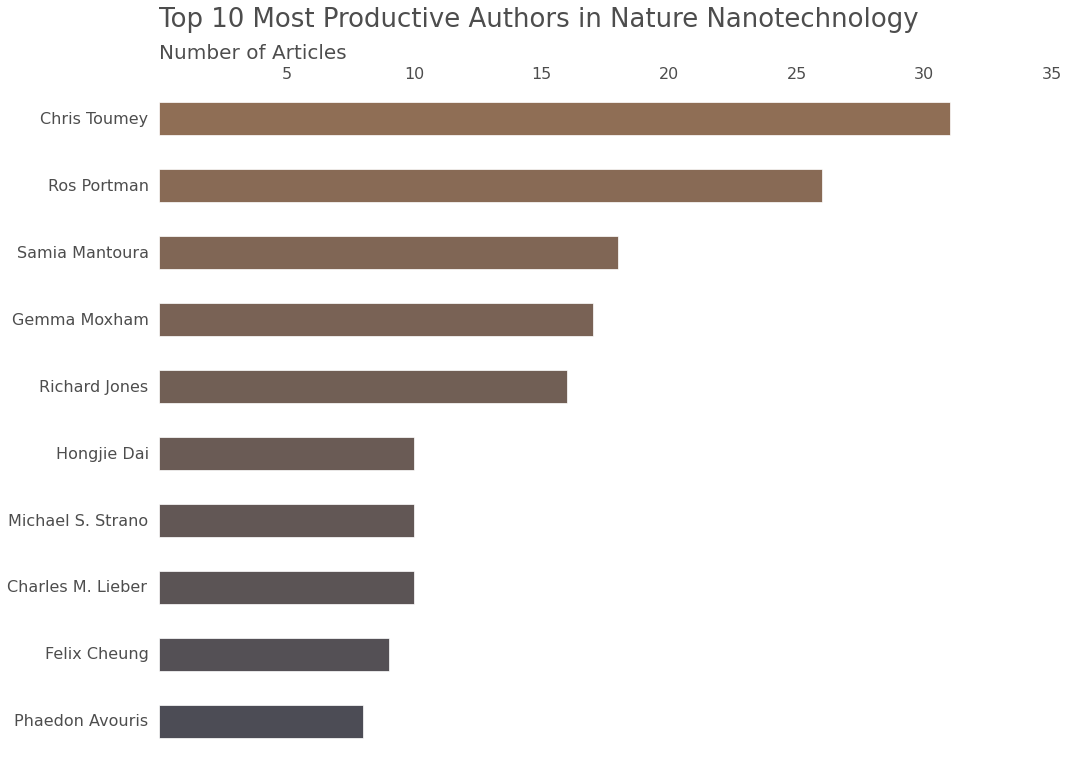
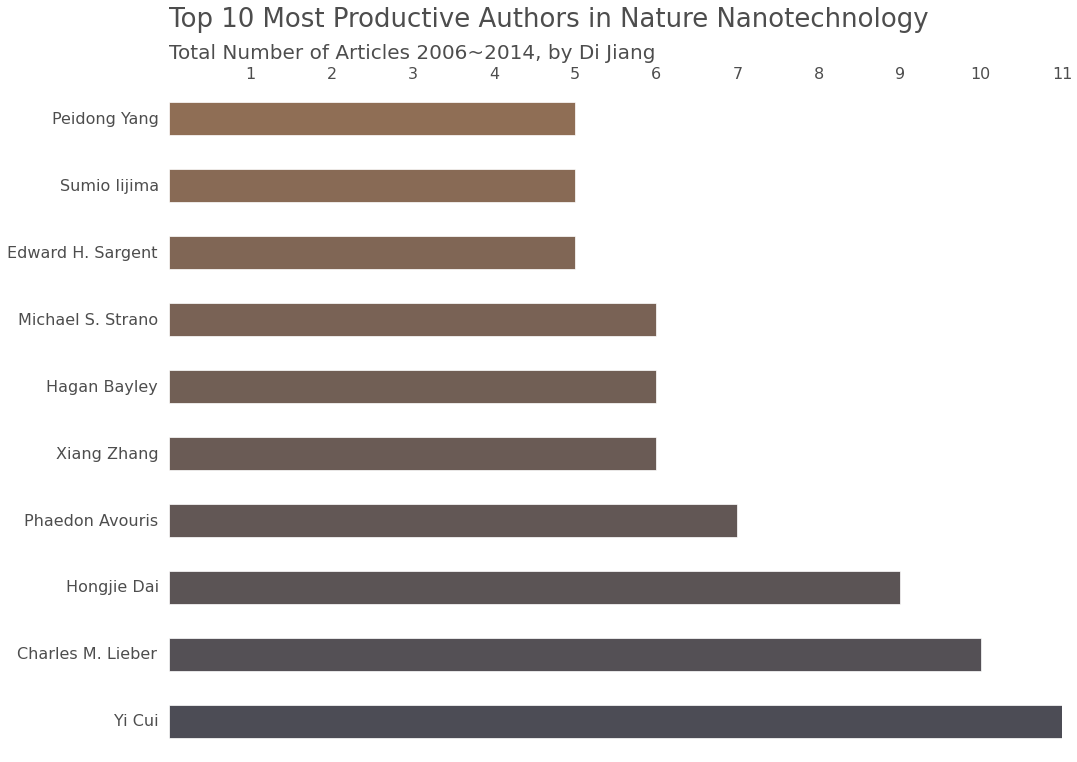
correct data

diff --git a/_drafts/2015-01-28-taste-of-open-access--part-3--top-10-most-productive-authors-in-nature-nanotechnology.md b/_drafts/2015-01-28-taste-of-open-access--part-3--top-10-most-productive-authors-in-nature-nanotechnology.md
@@ -9,54 +9,52 @@ date: 2015-01-28 18:00:41
 
 In the previous post, I have the downloaded all the meta information from Nature's Open Search API and saved them as json object arrays. And I have also counted the top 10 most used key words from these info. Now I would like to find out who are the most productive authors in Nature Nanotechnology.
 
-As I have already got the meta data in hand, the mission is quite easy. I just loaded all the json files and search for the `dc:creators` keys where stores all the author names. There is some bug in Nature's API that sometimes there are two spaces instead of one between authors' first and last names. So I did a quick fix `author.replace('[space][space]', '[space]')` to change two spaces to one before logging the name.
+As I have already got the meta data in hand, the mission is quite easy. I just loaded all the json files and search for the `dc:creators` keys where stores all the author names. There is a bug in Nature's API that sometimes there are two spaces instead of one between authors' first and last names. So I did a quick fix `author.replace('[space][space]', '[space]')` to change two spaces to one before logging the name.
 
 {% highlight python %}
-authorList = {}
-for year in range(2006, 2014):
+for year in range(2006, 2015):
     fileName = 'nnano-' + str(year)
     json_data=open(fileName + '.json')
     data = json.load(json_data)
+
+    authorList = {}
     
     for entry in data:
         if not entry['dc:creator']:
             continue
+        if entry["prism:genre"] != 'Research':
+            continue
             
         for author in entry['dc:creator']:
             author = author.replace('  ', ' ')
+            if author in editors:
+                continue
             if not author in authorList.keys():
                 authorList[author] = 1
             else:
                 authorList[author] = authorList[author] + 1
 {% endhighlight %}
 
-After iterating through all the json files, I've got a dictionary `authorList` holding all the author names and their corresponding number of mentions throughout Nature Nanotechnology's publication from 2006 to 2014. Then I just sorted it out in a descending order and got a array of tuples `sortedAuthorList`.
+After iterating through all the json files, I've got a dictionary `authorList` holding all the author names and their corresponding number of mentions throughout Nature Nanotechnology's publication from 2006 to 2014. I used the same Pandas functions, which I used to find the top 10 key words in my previous post, to find the top 10 most productive authors from this `authorList`. And of course, it is imaginable that some of the top names of the articles are Nature editors, not authors. So I just manually take away the editors names (`editors`). Maybe I get some of the names wrong, as some names are not listed on Nature Nanotechnology's website. Anyway, the not-so-precise final top 10 is this:
 
 {% highlight python %}
-import operator
-sortedAuthorList = sorted(authorList.items(), key=operator.itemgetter(1), reverse=True)
-{% endhighlight %}
-
-And of course, it is imaginable that some of the top names of the articles are Nature editors, not authors. So I just manually take away the editors' names ("Adarsh Sandhu", "Ai Lin Chun", "Tim Reid", "Jessica Thomas", "Peter Rodgers", "Owain Vaughan", "Stuart Cantrill", "Michael Segal", "Alberto Moscatelli", "Elisa De Ranieri", "Fabio Pulizzi", maybe I get some of the names wrong, as some names are not listed on Nature Nanotechnology's website), and the final author productivity list is like this:
-
-{% highlight python %}
-Phaedon Avouris       8
-Felix Cheung          9
+Yi Cui               11
 Charles M. Lieber    10
-Michael S. Strano    10
-Hongjie Dai          10
-Richard Jones        16
-Gemma Moxham         17
-Samia Mantoura       18
-Ros Portman          26
-Chris Toumey         31
+Hongjie Dai           9
+Phaedon Avouris       7
+Xiang Zhang           6
+Hagan Bayley          6
+Michael S. Strano     6
+Edward H. Sargent     5
+Sumio Iijima          5
+Peidong Yang          5
 {% endhighlight %}
 
-And a bar chart can make things look beautiful:
+Figures can make things look beautiful, this is the count of total number of articles per author:
 
-<!--
 ![top10 authors](/assets/images/top10productiveAuthorsNNano.png)
--->
+
+And this is the article number distribution by author and years:
 
 ![top10 authors](/assets/images/top10productiveAuthorsNNanoBarStack.png)
 
